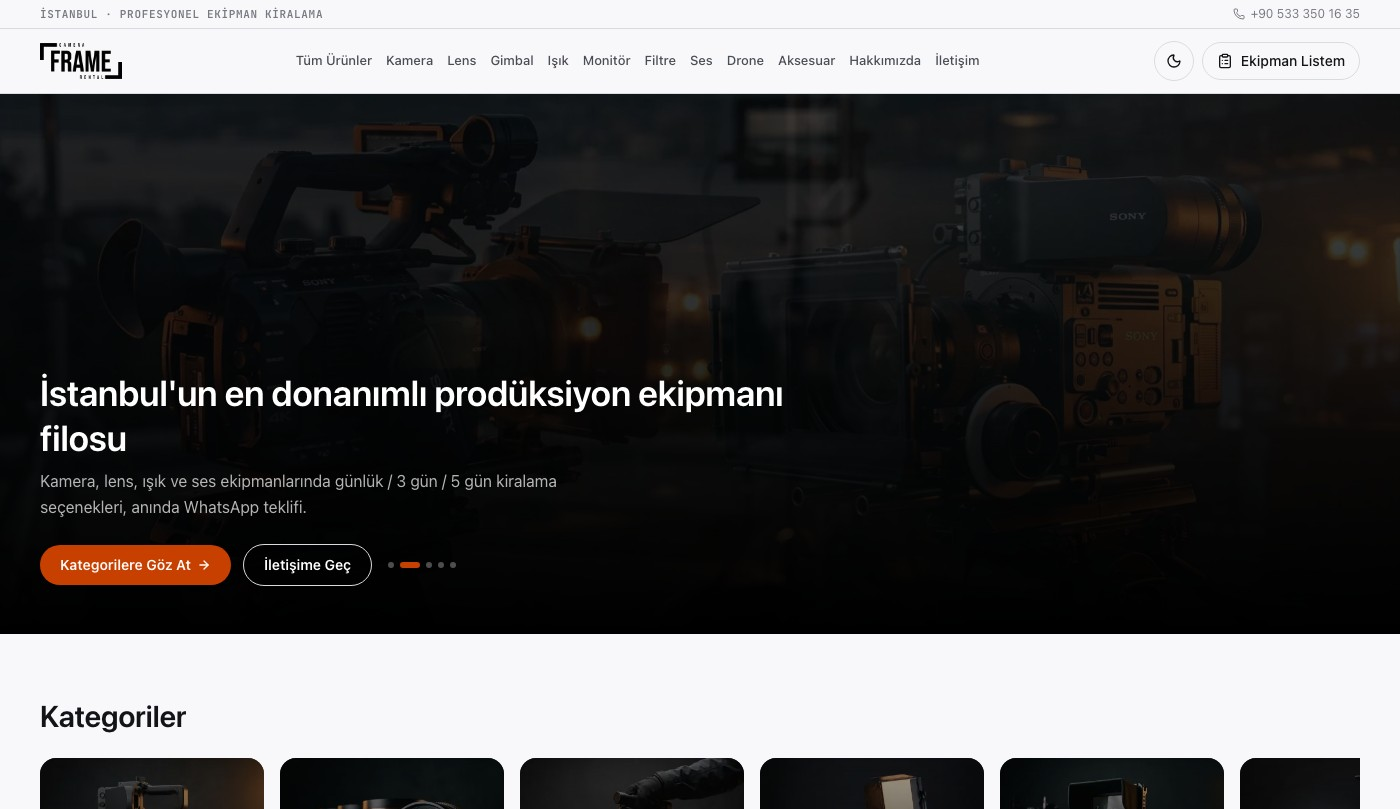
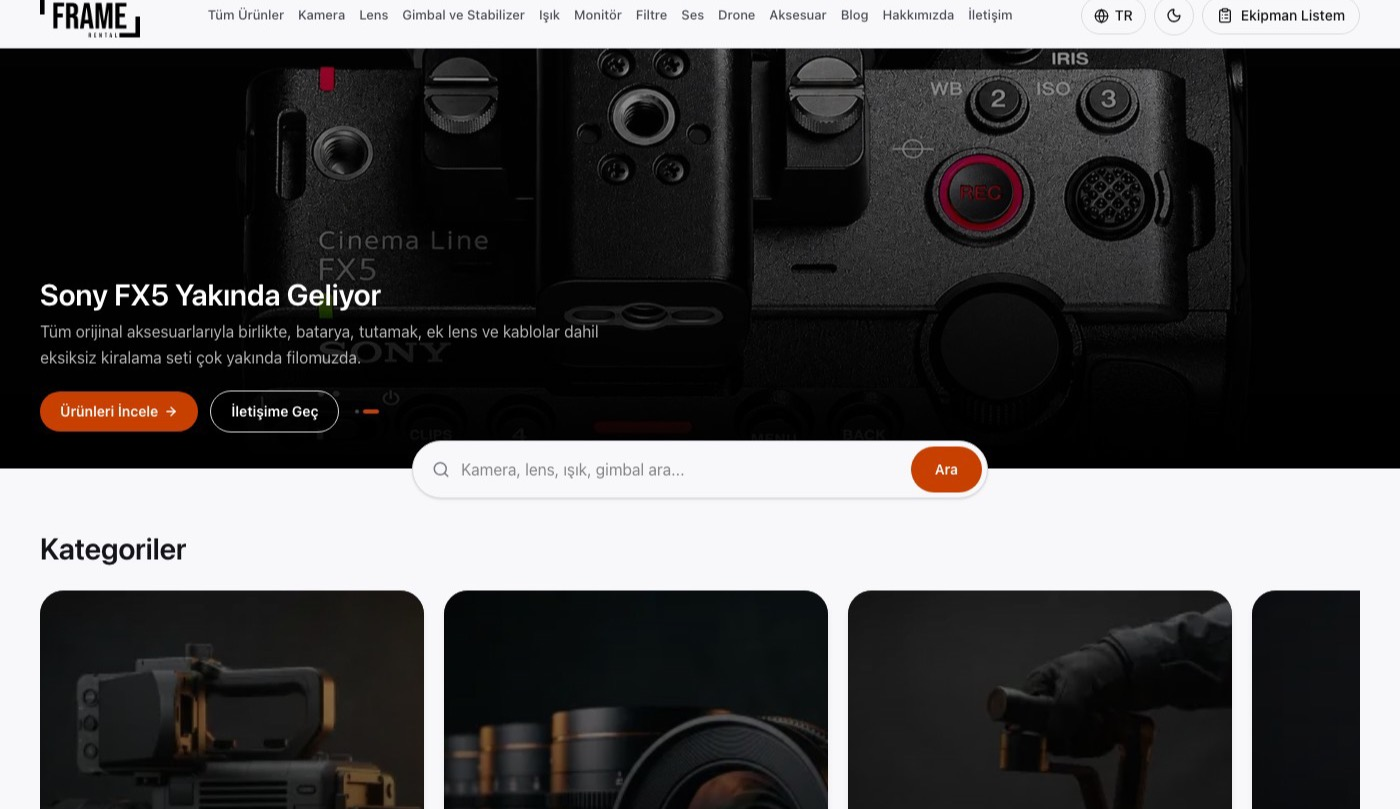
fix: Kamera Frame web projesi linki + güncel ekran görüntüsü
kameraframe-app.vercel.app yönlendirmesi yerine doğrudan kameraframe.com
linkine geçildi, ekran görüntüsü sitenin güncel tasarımıyla yenilendi.

diff --git a/index.html b/index.html
@@ -734,7 +734,7 @@
             <span class="ownsite-card__tag">Otel &amp; Restoran · SaaS</span>
           </div>
         </a>
-        <a class="ownsite-card work-card" data-category="webprojects" href="https://kameraframe-app.vercel.app/" target="_blank" rel="noopener">
+        <a class="ownsite-card work-card" data-category="webprojects" href="https://kameraframe.com" target="_blank" rel="noopener">
           <div class="ownsite-card__shot"><img src="images/ownsites/kameraframe.jpg" alt="Kamera Frame web sitesi" loading="lazy"></div>
           <div class="ownsite-card__info">
             <h3>Kamera Frame</h3>
